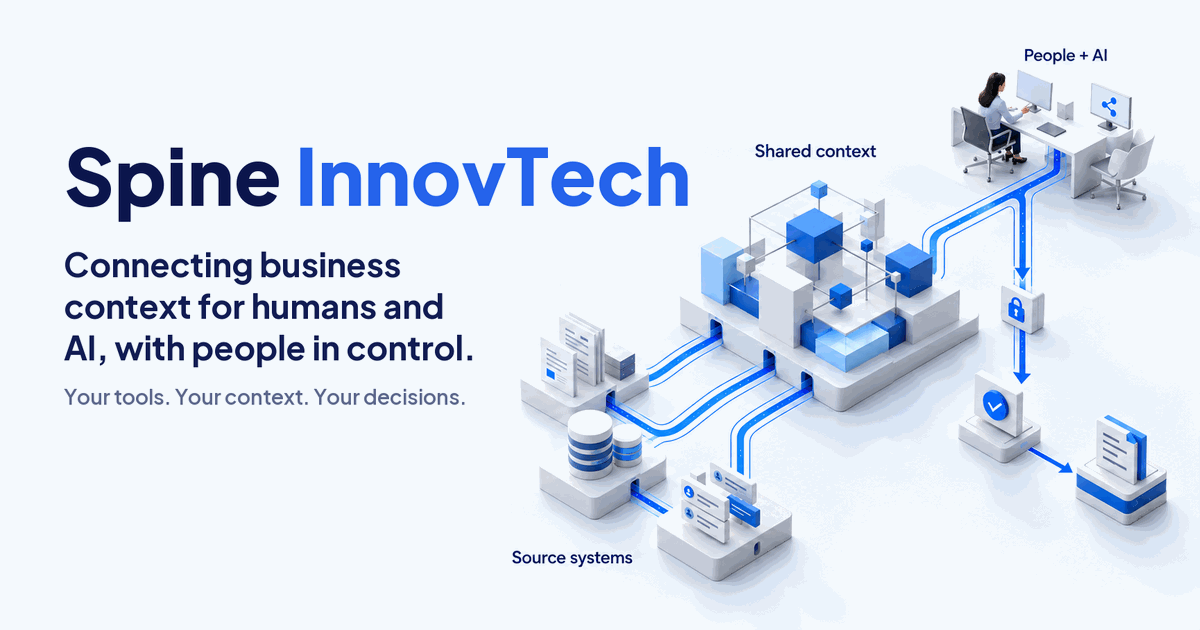
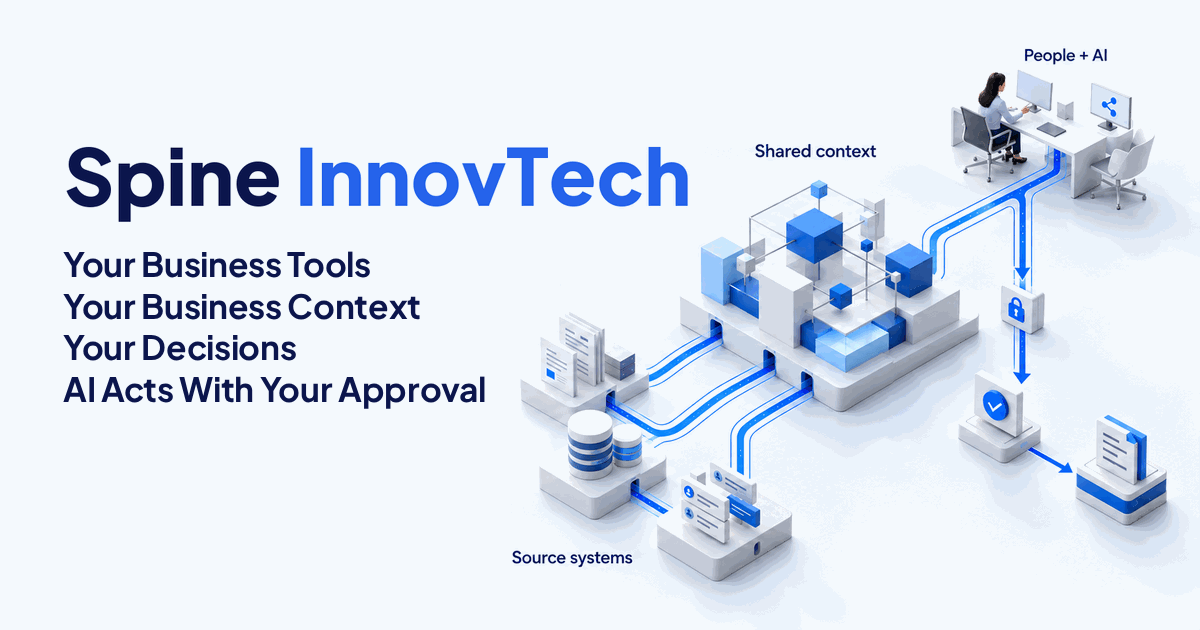
feat(seo): share picture carries the four-line canon; hold back legal summaries
Founder sign-off of the production candidate (2026-11-16).

- public/og-share-2026-11.png (1200x630, 256-colour PNG; public/og.png
  overwritten with the same picture): wordmark unchanged, the four H1 lines
  in Plus Jakarta Sans Bold 33.5px (the October headline size), illustration
  unchanged with 35px clear space. All 47 og:image/twitter:image references
  in 45 files point to it; og-share-2026-10.png stays for cached links.
- app/layout.tsx: the default og:title and image alt become the home share
  title, so pages without their own og:title no longer pair the retired
  headline with the new picture.
- /privacy and /terms: the plain-language summary boxes are held back until
  counsel reviews them; both pages match main again. The draft wording stays
  in lib/plain-language/legal.ts.
- /security: the role line keeps its hedge ("is designed to decide").
- The locked canon records the sign-off, including the founder note approved
  as written.

Gates run locally with NODE_ENV=production: npm run check,
npm run build:cloudflare and npm run verify:artifact all pass.

Changed region(s): [[0.0308, 0.3921, 0.4317, 0.6635]]

diff --git a/app/privacy/page.tsx b/app/privacy/page.tsx
@@ -5,8 +5,6 @@ import { Footer } from "@/components/footer"
 import { PageHero } from "@/components/marketing/page-hero"
 import { BreadcrumbJsonLd } from "@/components/structured-data"
 import { COMPANY_LEGAL_NAME } from "@/lib/company"
-import { PlainSummaryBox } from "@/components/sections/plain-summary-box"
-import { privacyPlainSummary } from "@/lib/plain-language/legal"
 
 export const metadata: Metadata = {
   title: "Privacy Policy | Spine InnovTech",
@@ -16,7 +14,7 @@ export const metadata: Metadata = {
     siteName: "Spine InnovTech",
     title: "Privacy Policy | Spine InnovTech",
     description: "How SpineWorkspace collects, uses, and protects your data.",
-    images: [{ url: "/og-share-2026-10.png", width: 1200, height: 630, alt: "SpineWorkspace" }],
+    images: [{ url: "/og-share-2026-11.png", width: 1200, height: 630, alt: "SpineWorkspace" }],
   },
 }
 
@@ -37,11 +35,6 @@ export default function PrivacyPage() {
           secondaryCta={{ label: "Terms & Conditions", href: "/terms" }}
         />
         <section className="mx-auto max-w-[800px] px-6 py-16 md:px-16">
-          <PlainSummaryBox>
-            {privacyPlainSummary.map((p) => (
-              <p key={p}>{p}</p>
-            ))}
-          </PlainSummaryBox>
           <div className="space-y-10 text-[15px] font-medium leading-[1.7] text-foreground/80">
             <div>
               <h2 className="text-[18px] font-semibold tracking-[-0.03em] text-foreground">1. Information we collect</h2>

diff --git a/app/terms/page.tsx b/app/terms/page.tsx
@@ -5,8 +5,6 @@ import { Footer } from "@/components/footer"
 import { PageHero } from "@/components/marketing/page-hero"
 import { BreadcrumbJsonLd } from "@/components/structured-data"
 import { COMPANY_LEGAL_NAME } from "@/lib/company"
-import { PlainSummaryBox } from "@/components/sections/plain-summary-box"
-import { termsPlainSummary } from "@/lib/plain-language/legal"
 
 export const metadata: Metadata = {
   title: "Terms & Conditions | Spine InnovTech",
@@ -16,7 +14,7 @@ export const metadata: Metadata = {
     siteName: "Spine InnovTech",
     title: "Terms & Conditions | Spine InnovTech",
     description: "Terms of service for using SpineWorkspace.",
-    images: [{ url: "/og-share-2026-10.png", width: 1200, height: 630, alt: "SpineWorkspace" }],
+    images: [{ url: "/og-share-2026-11.png", width: 1200, height: 630, alt: "SpineWorkspace" }],
   },
 }
 
@@ -37,11 +35,6 @@ export default function TermsPage() {
           secondaryCta={{ label: "Security overview", href: "/security" }}
         />
         <section className="mx-auto max-w-[800px] px-6 py-16 md:px-16">
-          <PlainSummaryBox>
-            {termsPlainSummary.map((p) => (
-              <p key={p}>{p}</p>
-            ))}
-          </PlainSummaryBox>
           <div className="space-y-10 text-[15px] font-medium leading-[1.7] text-foreground/80">
             <div>
               <h2 className="text-[18px] font-semibold tracking-[-0.03em] text-foreground">1. Acceptance of terms</h2>

diff --git a/app/layout.tsx b/app/layout.tsx
@@ -32,23 +32,23 @@ export const metadata: Metadata = {
     apple: "/icon.svg",
   },
   openGraph: {
-    title: "Connecting business context for humans and AI, with people in control.",
+    title: "Your Business Tools. Your Business Context. Your Decisions. AI Acts With Your Approval.",
     description:
       "Spine InnovTech connects your tools, people, and AI through shared business context, with people in control.",
     siteName: "Spine InnovTech",
     type: "website",
     images: [
       {
-        url: "/og-share-2026-10.png",
+        url: "/og-share-2026-11.png",
         width: 1200,
         height: 630,
-        alt: "Spine InnovTech — Connecting business context for humans and AI, with people in control.",
+        alt: "Spine InnovTech — Your Business Tools. Your Business Context. Your Decisions. AI Acts With Your Approval.",
       },
     ],
   },
   twitter: {
     card: "summary_large_image",
-    images: ["/og-share-2026-10.png"],
+    images: ["/og-share-2026-11.png"],
   },
 }
 

diff --git a/app/platform/spine-fabric/page.tsx b/app/platform/spine-fabric/page.tsx
@@ -17,7 +17,7 @@ export const metadata: Metadata = {
     title: "Spine Fabric — The contextual foundation | Spine InnovTech",
     description:
       "Spine Fabric is the shared view of records from the tools you already use. It connects the records, evidence, goals, decisions and results you are allowed to see. Those tools keep the record.",
-    images: [{ url: "/og-share-2026-10.png", width: 1200, height: 630, alt: "Spine InnovTech" }],
+    images: [{ url: "/og-share-2026-11.png", width: 1200, height: 630, alt: "Spine InnovTech" }],
   },
 }
 

diff --git a/app/twin/page.tsx b/app/twin/page.tsx
@@ -16,7 +16,7 @@ export const metadata: Metadata = {
     title: "Spine Twin — Context-aware AI within human authority | Spine InnovTech",
     description:
       "Spine Twin looks into things, prepares work and suggests next steps from the context it is allowed to use. Important actions wait for a person's approval.",
-    images: [{ url: "/og-share-2026-10.png", width: 1200, height: 630, alt: "Spine InnovTech" }],
+    images: [{ url: "/og-share-2026-11.png", width: 1200, height: 630, alt: "Spine InnovTech" }],
   },
 }
 

diff --git a/app/platform/how-it-works/page.tsx b/app/platform/how-it-works/page.tsx
@@ -15,7 +15,7 @@ export const metadata: Metadata = {
     siteName: "Spine InnovTech",
     title: "How it works | Spine InnovTech",
     description: "People and Twin work from the business facts they are allowed to see: look into things, prepare work, review actions that matter, and check the results in your own tools.",
-    images: [{ url: "/og-share-2026-10.png", width: 1200, height: 630, alt: "SpineWorkspace" }],
+    images: [{ url: "/og-share-2026-11.png", width: 1200, height: 630, alt: "SpineWorkspace" }],
   },
 }
 

diff --git a/app/integrations/page.tsx b/app/integrations/page.tsx
@@ -16,7 +16,7 @@ export const metadata: Metadata = {
     siteName: "Spine InnovTech",
     title: "Connected Ecosystems & Integrations | Spine InnovTech",
     description: "Connect the tools you already use and bring the facts together for people and Spine Twin. Those tools keep the record.",
-    images: [{ url: "/og-share-2026-10.png", width: 1200, height: 630, alt: "SpineWorkspace Integrations" }],
+    images: [{ url: "/og-share-2026-11.png", width: 1200, height: 630, alt: "SpineWorkspace Integrations" }],
   },
 }
 

diff --git a/app/security/page.tsx b/app/security/page.tsx
@@ -16,7 +16,7 @@ export const metadata: Metadata = {
     siteName: "Spine InnovTech",
     title: "Security | Spine InnovTech",
     description: "How SpineWorkspace is designed to keep information safe, and to have a person approve important actions. Deployed controls and certifications need an independent check.",
-    images: [{ url: "/og-share-2026-10.png", width: 1200, height: 630, alt: "Spine InnovTech" }],
+    images: [{ url: "/og-share-2026-11.png", width: 1200, height: 630, alt: "Spine InnovTech" }],
   },
 }
 

diff --git a/app/spine/page.tsx b/app/spine/page.tsx
@@ -16,7 +16,7 @@ export const metadata: Metadata = {
     title: "Spine — The foundation for connected business work | Spine InnovTech",
     description:
       "Spine is the foundation Spine InnovTech builds so people and AI can share one view of the business, while your existing tools keep the record.",
-    images: [{ url: "/og-share-2026-10.png", width: 1200, height: 630, alt: "Spine InnovTech" }],
+    images: [{ url: "/og-share-2026-11.png", width: 1200, height: 630, alt: "Spine InnovTech" }],
   },
 }
 

diff --git a/app/platform/security/page.tsx b/app/platform/security/page.tsx
@@ -11,7 +11,7 @@ export const metadata: Metadata = {
     siteName: "Spine InnovTech",
     title: "How platform security is built | Spine InnovTech",
     description: "How SpineWorkspace security is built. Review sign-in, how data is protected, who can get in, and the record of actions for each setup.",
-    images: [{ url: "/og-share-2026-10.png", width: 1200, height: 630, alt: "Spine InnovTech" }],
+    images: [{ url: "/og-share-2026-11.png", width: 1200, height: 630, alt: "Spine InnovTech" }],
   },
 }
 

diff --git a/app/solutions/page.tsx b/app/solutions/page.tsx
@@ -19,7 +19,7 @@ export const metadata: Metadata = {
     siteName: "Spine InnovTech",
     title: "Solutions by Team & Industry | Spine InnovTech",
     description: "See how sales, customer success, finance, operations and other teams use the same facts for different jobs.",
-    images: [{ url: "/og-share-2026-10.png", width: 1200, height: 630, alt: "SpineWorkspace Solutions" }],
+    images: [{ url: "/og-share-2026-11.png", width: 1200, height: 630, alt: "SpineWorkspace Solutions" }],
   },
 }
 

diff --git a/app/platform/page.tsx b/app/platform/page.tsx
@@ -19,7 +19,7 @@ export const metadata: Metadata = {
     siteName: "Spine InnovTech",
     title: "Technology | Spine InnovTech",
     description: "Shared information, work built around your role, AI that helps, and actions people approve — all in one connected product.",
-    images: [{ url: "/og-share-2026-10.png", width: 1200, height: 630, alt: "SpineWorkspace Platform" }],
+    images: [{ url: "/og-share-2026-11.png", width: 1200, height: 630, alt: "SpineWorkspace Platform" }],
   },
 }
 
